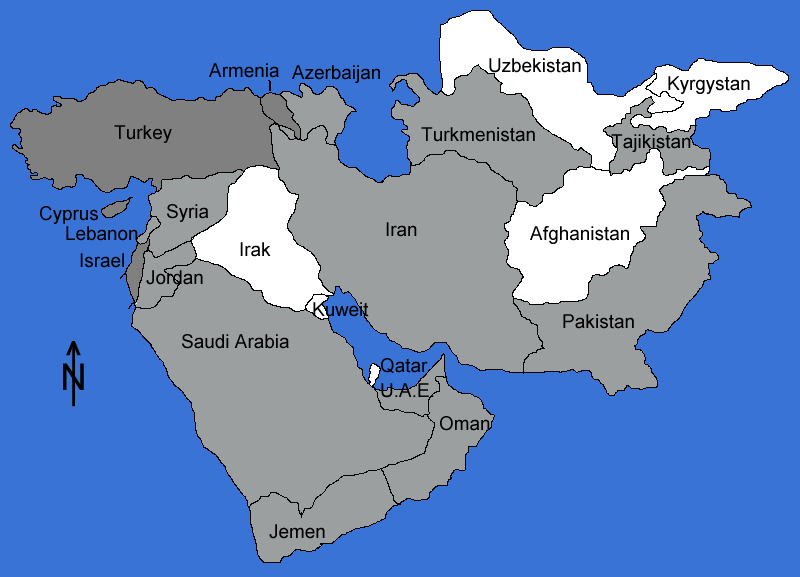
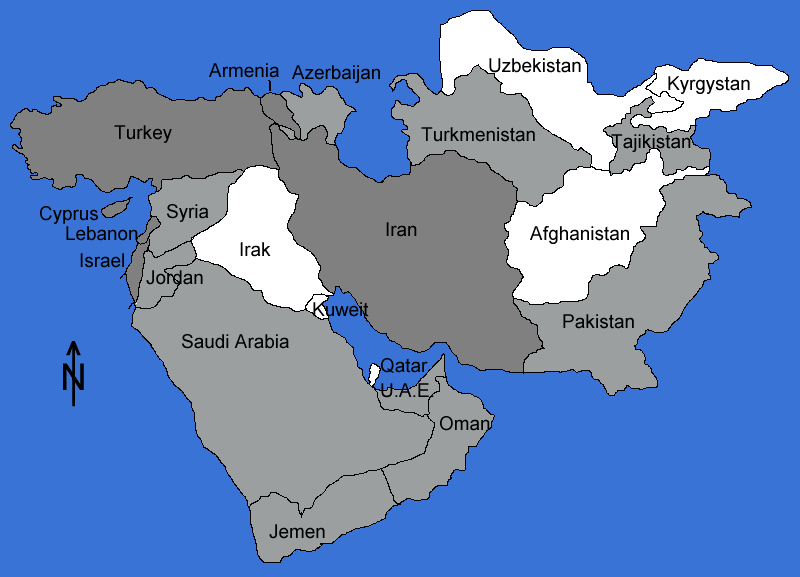
maps

Changed region(s): [[0.3125, 0.2184, 0.6875, 0.6551], [0.1875, 0.3744, 0.2188, 0.4055], [0.1562, 0.4055, 0.1875, 0.4367]]

diff --git a/english/ir/Maps/index.html b/english/ir/Maps/index.html
@@ -35,10 +35,43 @@
 <div data-role="page" id="pageroot">
     <div data-role="main" class="ui-content">
 
+        <figure class="left">
+            <a target="_top" href="../../explain/Maps/MiddleEast.html"><img alt="Middle East Map" src="../../../maps/MiddleEast.png" class="mapIconMiddleEast"></a>
+            <figcaption class="center">MiddleEast Map</figcaption>
+        </figure>
 
-        <div id="MenueEntries">
-            <ul class="linklist" data-role="listview" data-inset="true">
-            </ul>
+        <figure class="right">
+            <a target="_top" href="../../explain/Maps/MiddleEast.html"><img alt="Middle East Map" src="../../../maps/MiddleEast.png" class="mapIconMiddleEast"></a>
+            <figcaption class="center">MiddleEast Map</figcaption>
+        </figure>
+
+
+        <h1 class="center">Map of Iran</h1>
+
+        <br class="clear">
+
+        <div class="center">
+            <map name="IranMap">
+                <area shape="rect" coords="147,232,199,245" alt="Ghar-e-Ali Sadr" target="_top" href="../showcaves/AliSadr.html" />
+                <area shape="rect" coords="277,294,292,311" alt="Niasar" target="_top" href="../subterranea/Niasar.html" />
+                <area shape="rect" coords="261,278,304,293" alt="Niasar" target="_top" href="../subterranea/Niasar.html" />
+                <area shape="rect" coords="364,207,459,224" alt="Ghar Darband" target="_top" href="../showcaves/Darband.html" />
+                <area shape="rect" coords="162,194,285,210" alt="Ghar Katalehkhor" target="_top" href="../showcaves/KataleKhor.html" />
+                <area shape="rect" coords="100,217,215,234" alt="Ghar-e-Quri Qaleh" target="_top" href="../showcaves/QuriQaleh.html" />
+                <area shape="rect" coords="290,504,451,521" alt="Cave of Shapoor" target="_top" href="../caves/Shapoor.html" />
+                <area shape="rect" coords="185,297,279,312" alt="Chal-Nakhjir" target="_top" href="../showcaves/ChalNakhjir.html" />
+                <area shape="rect" coords="-1,57,22,125" alt="Turkey" target="_top" href="../../tr/Maps/index.html" />
+                <area shape="rect" coords="506,22,626,49" alt="Turkmenistan" target="_top" href="../../other/region/tm.html" />
+                <area shape="rect" coords="671,332,776,356" alt="Afghanistan" target="_top"  nohref="nohref" />
+                <area shape="rect" coords="22,394,60,420" alt="Iraq" target="_top"  nohref="nohref" />
+                <area shape="rect" coords="132,523,195,547" alt="Kuwait" target="_top"  nohref="nohref" />
+                <area shape="rect" coords="24,581,138,604" alt="Saudi Arabia" target="_top" href="../../other/region/sa.html" />
+                <area shape="rect" coords="259,762,311,785" alt="Qatar" target="_top"  nohref="nohref" />
+                <area shape="rect" coords="712,507,795,536" alt="Pakistan" target="_top" href="../../other/region/pk.html" />
+                <area shape="rect" coords="114,0,211,20" alt="Azerbaijan" target="_top" href="../../other/region/az.html" />
+                <area shape="default" alt="">
+            </map>
+            <img alt="" src="../../../maps/Big/Iran.png" USEMAP="#IranMap" border="1" width="800" height="726">
         </div>
 
     </div>
@@ -52,7 +85,7 @@
             </ul>
             <div data-role="controlgroup" data-type="horizontal" class="center">
                 <a data-ajax="false" href="../region/index.html" data-role="button" class="">By Province</a>
-                <a data-ajax="false" href="../Maps/index.html" data-role="button" class="ui-btn-active">Maps</a>
+                <a data-ajax="false" href="index.html" data-role="button" class="ui-btn-active">Maps</a>
             </div>
         </div>
     </div>

diff --git a/german/explain/Maps/MiddleEast.html b/german/explain/Maps/MiddleEast.html
@@ -60,7 +60,7 @@
                 <area shape="poly" alt="Lebanon" coords="151,216,145,226,146,229,140,234,136,236,137,244,145,243,148,239,149,235,152,230,158,227,162,224,157,215,152,215" href="../../../english/lb/Maps/index.html">
                 <area shape="poly" alt="Iran"
                       coords="274,121,269,129,270,134,272,150,275,159,280,166,279,172,281,179,282,181,285,185,287,190,298,195,296,202,294,214,289,219,287,224,287,228,292,234,294,240,300,246,305,248,314,256,318,263,319,267,319,277,323,285,333,294,336,286,339,285,343,293,349,291,356,299,361,311,369,323,376,331,383,335,386,333,390,339,397,343,403,347,412,350,417,350,418,352,429,350,433,343,438,343,446,343,457,356,461,364,469,365,481,371,489,369,502,369,509,371,523,371,523,362,527,356,531,352,536,351,540,348,545,347,542,345,542,341,540,337,538,332,538,325,532,323,530,320,524,318,522,316,518,309,513,303,513,296,512,296,512,293,523,277,518,268,512,267,506,261,508,248,504,241,507,237,507,235,508,232,505,227,504,224,510,220,513,213,518,200,516,199,517,190,518,189,513,185,513,182,506,179,496,172,490,170,487,162,478,162,474,159,469,158,465,156,462,156,455,151,444,150,444,152,441,154,430,154,423,158,422,163,417,164,411,164,410,172,407,173,403,173,400,175,394,176,389,174,387,177,383,180,381,182,378,182,374,179,366,176,361,171,357,167,348,166,341,162,338,159,337,150,336,145,328,144,326,140,328,134,325,128,322,124,311,128,306,134,308,138,305,140,301,138,296,136,292,138,288,138,286,135,280,129,279,128,279,124,275,122"
-                      href="../../../english/ir/region/Map.html">
+                      href="../../../english/ir/Maps/index.html">
                 <area shape="default" alt="">
             </map>
             <img alt="" src="../../../maps/Big/MiddleEast.gif" USEMAP="#MiddleEastMap" border="1" width="800" height="577">
@@ -71,7 +71,7 @@
         <br>
 
         <ul class="linklist2" data-role="listview" data-inset="true">
-            <li><a data-ajax="false" target="_top" href="../../../english/ir/region/Map.html">Iran</a></li>
+            <li><a data-ajax="false" target="_top" href="../../../english/ir/Maps/index.html">Iran</a></li>
             <li><a data-ajax="false" target="_top" href="../../../english/il/Maps/index.html">Israel</a></li>
             <li><a data-ajax="false" target="_top" href="../../../english/lb/Maps/index.html">Libanon</a></li>
             <li><a data-ajax="false" target="_top" href="../../../english/tr/Maps/index.html">Türkei</a></li>

diff --git a/english/explain/Maps/MiddleEast.html b/english/explain/Maps/MiddleEast.html
@@ -60,7 +60,7 @@
                 <area shape="poly" alt="Lebanon" coords="151,216,145,226,146,229,140,234,136,236,137,244,145,243,148,239,149,235,152,230,158,227,162,224,157,215,152,215" href="../../lb/Maps/index.html">
                 <area shape="poly" alt="Iran"
                       coords="274,121,269,129,270,134,272,150,275,159,280,166,279,172,281,179,282,181,285,185,287,190,298,195,296,202,294,214,289,219,287,224,287,228,292,234,294,240,300,246,305,248,314,256,318,263,319,267,319,277,323,285,333,294,336,286,339,285,343,293,349,291,356,299,361,311,369,323,376,331,383,335,386,333,390,339,397,343,403,347,412,350,417,350,418,352,429,350,433,343,438,343,446,343,457,356,461,364,469,365,481,371,489,369,502,369,509,371,523,371,523,362,527,356,531,352,536,351,540,348,545,347,542,345,542,341,540,337,538,332,538,325,532,323,530,320,524,318,522,316,518,309,513,303,513,296,512,296,512,293,523,277,518,268,512,267,506,261,508,248,504,241,507,237,507,235,508,232,505,227,504,224,510,220,513,213,518,200,516,199,517,190,518,189,513,185,513,182,506,179,496,172,490,170,487,162,478,162,474,159,469,158,465,156,462,156,455,151,444,150,444,152,441,154,430,154,423,158,422,163,417,164,411,164,410,172,407,173,403,173,400,175,394,176,389,174,387,177,383,180,381,182,378,182,374,179,366,176,361,171,357,167,348,166,341,162,338,159,337,150,336,145,328,144,326,140,328,134,325,128,322,124,311,128,306,134,308,138,305,140,301,138,296,136,292,138,288,138,286,135,280,129,279,128,279,124,275,122"
-                      href="../../../english/ir/region/Map.html">
+                      href="../../ir/Maps/index.html">
                 <area shape="poly" coords="260,97,259,104,263,105,263,111,266,115,278,124,295,131,294,135,298,138,301,140,300,135,301,128,299,125,292,118,292,115,294,111,292,111,287,106,287,100,280,94,278,94,271,92,269,93,267,93,261,97" alt="Armenia" target="_top" href="../../am/index.html"/>
                 <area shape="poly" coords="279,125,279,129,282,131,279,125,279,130,282,131,288,137,289,140,294,139,297,137,295,135,294,130,280,124,279,124" alt="Azerbaijan" target="_top" href="../../other/region/az.html"/>
                 <area shape="poly" coords="279,94,286,100,286,107,292,112,293,113,291,117,298,125,300,128,301,139,303,141,307,139,307,133,312,128,315,128,323,125,327,131,327,135,325,139,327,143" alt="Azerbaijan" target="_top" href="../../other/region/az.html"/>

diff --git a/english/am/region/VayotsDzor.html b/english/am/region/VayotsDzor.html
@@ -42,16 +42,12 @@
         <br class="clear">
 
         <p>
-            <b>Վայոց Ձոր</b> (Vayots Dzor Province)
-            The cultural heritage and the natural monuments of the region attract a number of tourists.
-            Jermuk and the surrounding forests are a tourist attraction with many sanatoriums, spa resorts and its ropeway.
-            It is considered one of the centres of medical tourism in Armenia.
-
+            <b>Վայոց Ձոր</b> (Vayots Dzor Province) is considered the center of medical tourism in Armenia, with many sanatoriums and spa resorts.
+            The cultural heritage and the natural monuments of the region also attract a number of tourists.
+            Jermuk and the surrounding forests are a major tourist attraction.
             Some areas of the province are listed as protected wildlife sanctuaries, including the Herher Open Woodland Sanctuary, the Jermuk Forest Sanctuary, the Jermuk Hydrological Sanctuary, and the Yeghegnadzor Sanctuary.
-
-            The Mozrov Cave was found in 1980 near the village of Arpi.
-            It is protected as a natural and cultural monument of Armenia.
-
+            Some mountains are developed with cable cars.
+            The is also karstified and has numerous caves.
         </p>
 
 
@@ -83,10 +79,10 @@
                 <li><a data-ajax="false" target="_top" href="index.html">By Province</a></li>
             </ul>
         </div>
-        <div data-role="controlgroup" data-type="horizontal" class="center">
-            <a data-ajax="false" href="../region/VayotsDzor.html" data-role="button" class="ui-btn-active">By Province</a>
-            <a data-ajax="false" href="../Maps/VayotsDzor.html" data-role="button" class="">Maps</a>
-        </div>
+<!--        <div data-role="controlgroup" data-type="horizontal" class="center">-->
+<!--            <a data-ajax="false" href="../region/VayotsDzor.html" data-role="button" class="ui-btn-active">By Province</a>-->
+<!--            <a data-ajax="false" href="../Maps/VayotsDzor.html" data-role="button" class="">Maps</a>-->
+<!--        </div>-->
     </div>
     <!-- Path End -->
 

diff --git a/english/lb/Maps/index.html b/english/lb/Maps/index.html
@@ -36,13 +36,13 @@
     <div data-role="main" class="ui-content">
 
         <figure class="left">
-            <a target="_top" href="../../explain/Maps/MiddleEast.html"><img alt="Middle East Map" src="../../../maps/MiddleEast.gif" width="86" height="62"></a>
-            <figcaption class="center">Middle East Map</figcaption>
+            <a target="_top" href="../../explain/Maps/MiddleEast.html"><img alt="Middle East Map" src="../../../maps/MiddleEast.png" class="mapIconMiddleEast"></a>
+            <figcaption class="center">MiddleEast Map</figcaption>
         </figure>
 
         <figure class="right">
-            <a target="_top" href="../../explain/Maps/MiddleEast.html"><img alt="Middle East Map" src="../../../maps/MiddleEast.gif" width="86" height="62"></a>
-            <figcaption class="center">Middle East Map</figcaption>
+            <a target="_top" href="../../explain/Maps/MiddleEast.html"><img alt="Middle East Map" src="../../../maps/MiddleEast.png" class="mapIconMiddleEast"></a>
+            <figcaption class="center">MiddleEast Map</figcaption>
         </figure>
 
 
@@ -57,7 +57,7 @@
                 <area shape="rect" alt="Israel" coords="193,581,238,598" href="../../il/Maps/index.html">
                 <area shape="rect" alt="Israel" coords="119,622,161,636" href="../../il/Maps/index.html">
                 <area shape="rect" alt="Israel" coords="186,619,242,634" href="../../il/Maps/index.html">
-                <area shape="default">
+                <area shape="default" alt="">
             </map>
             <img alt="" src="../../../maps/Big/Lebanon.gif" USEMAP="#LebanonMap">
         </div>

diff --git a/english/am/region/Syunik.html b/english/am/region/Syunik.html
@@ -43,8 +43,7 @@
 
         <p>
             <b>Սյունիք</b> (Syunik Province) is the southernmost province of Armenia.
-            It is enclosed by the Azerbaijan's Nakhchivan Autonomous Republic exclave to the west and Azerbaijan to the east.
-            The southern tip borders the Iran.
+            It is enclosed by the Azerbaijan's Nakhchivan Autonomous Republic exclave to the west and Azerbaijan to the east, the southern tip borders the Iran.
             Capital and largest city is Kapan.
             The province is a mountainous region, mainly covered with thick green forests.
             The main mountain ridge is called the <b>Zangezur Mountains</b>, with the highest peaks Mount Kaputjugh (3905 m asl) and Mount Gazanasar (3829 m asl).
@@ -77,10 +76,10 @@
                 <li><a data-ajax="false" target="_top" href="index.html">By Province</a></li>
             </ul>
         </div>
-        <div data-role="controlgroup" data-type="horizontal" class="center">
-            <a data-ajax="false" href="../region/Syunik.html" data-role="button" class="ui-btn-active">By Province</a>
-            <a data-ajax="false" href="../Maps/Syunik.html" data-role="button" class="">Maps</a>
-        </div>
+<!--        <div data-role="controlgroup" data-type="horizontal" class="center">-->
+<!--            <a data-ajax="false" href="../region/Syunik.html" data-role="button" class="ui-btn-active">By Province</a>-->
+<!--            <a data-ajax="false" href="../Maps/Syunik.html" data-role="button" class="">Maps</a>-->
+<!--        </div>-->
     </div>
     <!-- Path End -->
 

diff --git a/english/am/region/Ararat.html b/english/am/region/Ararat.html
@@ -42,7 +42,11 @@
         <br class="clear">
 
         <p>
-            <b>Արարատ</b> (Ararat Province)
+            <b>Արարատ</b> (Ararat Province) is named after the biblical Mount Ararat.
+            Located at the southeast of the Ararat plain, approximately 30% of the territory is plain, while the rest is dominated by mountains.
+            The Yeranos mountains are in the north, the Gegham, Dahnak and Mzhkatar mountains in the east, and the Urts mountains in the south.
+            The province is bordered by the Araks river in the west.
+            The highest mountain is mount Spitakasar (3560 m asl) in Gegham mountains.
         </p>
 
 
@@ -71,10 +75,10 @@
                 <li><a data-ajax="false" target="_top" href="index.html">By Province</a></li>
             </ul>
         </div>
-        <div data-role="controlgroup" data-type="horizontal" class="center">
-            <a data-ajax="false" href="../region/Ararat.html" data-role="button" class="ui-btn-active">By Province</a>
-            <a data-ajax="false" href="../Maps/Ararat.html" data-role="button" class="">Maps</a>
-        </div>
+        <!--        <div data-role="controlgroup" data-type="horizontal" class="center">-->
+        <!--            <a data-ajax="false" href="../region/Ararat.html" data-role="button" class="ui-btn-active">By Province</a>-->
+        <!--            <a data-ajax="false" href="../Maps/Ararat.html" data-role="button" class="">Maps</a>-->
+        <!--        </div>-->
     </div>
     <!-- Path End -->
 

diff --git a/english/il/Maps/index.html b/english/il/Maps/index.html
@@ -36,12 +36,12 @@
     <div data-role="main" class="ui-content">
 
         <figure class="left">
-            <a target="_top" href="../../explain/Maps/MiddleEast.html"><img alt="Middle East Map" src="../../../maps/MiddleEast.gif" class="mapIconMiddleEast"></a>
+            <a target="_top" href="../../explain/Maps/MiddleEast.html"><img alt="Middle East Map" src="../../../maps/MiddleEast.png" class="mapIconMiddleEast"></a>
             <figcaption class="center">MiddleEast Map</figcaption>
         </figure>
 
         <figure class="right">
-            <a target="_top" href="../../explain/Maps/MiddleEast.html"><img alt="Middle East Map" src="../../../maps/MiddleEast.gif" class="mapIconMiddleEast"></a>
+            <a target="_top" href="../../explain/Maps/MiddleEast.html"><img alt="Middle East Map" src="../../../maps/MiddleEast.png" class="mapIconMiddleEast"></a>
             <figcaption class="center">MiddleEast Map</figcaption>
         </figure>
 

diff --git a/english/ir/index.html b/english/ir/index.html
@@ -43,7 +43,7 @@
         <ul class="linklist" data-role="listview" data-inset="true">
             <li><a data-ajax="false" target="_top" href="region/ByRegion.html"><img alt="Region" class="ui-li-icon ui-corner-none symbol" src="../../graphics/symbol/Region.png">Alphabetical Index</a></li>
             <li><a data-ajax="false" target="_top" href="region/index.html"><img alt="Region" class="ui-li-icon ui-corner-none symbol" src="../../graphics/symbol/Region.png">Provinces</a></li>
-            <li><a data-ajax="false" target="_top" href="region/Map.html"><img alt="Map" class="ui-li-icon ui-corner-none symbol" src="../../graphics/symbol/Map.png">Map</a></li>
+            <li><a data-ajax="false" target="_top" href="Maps/index.html"><img alt="Map" class="ui-li-icon ui-corner-none symbol" src="../../graphics/symbol/Map.png">Map</a></li>
         </ul>
 
         <ul class="linklist" data-role="listview" data-inset="true">

diff --git a/english/am/region/Yerevan.html b/english/am/region/Yerevan.html
@@ -72,10 +72,10 @@
                 <li><a data-ajax="false" target="_top" href="index.html">By Province</a></li>
             </ul>
         </div>
-        <div data-role="controlgroup" data-type="horizontal" class="center">
-            <a data-ajax="false" href="../region/Yerevan.html" data-role="button" class="ui-btn-active">By Province</a>
-            <a data-ajax="false" href="../Maps/Yerevan.html" data-role="button" class="">Maps</a>
-        </div>
+<!--        <div data-role="controlgroup" data-type="horizontal" class="center">-->
+<!--            <a data-ajax="false" href="../region/Yerevan.html" data-role="button" class="ui-btn-active">By Province</a>-->
+<!--            <a data-ajax="false" href="../Maps/Yerevan.html" data-role="button" class="">Maps</a>-->
+<!--        </div>-->
     </div>
     <!-- Path End -->
 

diff --git a/english/tr/Maps/index.html b/english/tr/Maps/index.html
@@ -37,7 +37,7 @@
 
 
         <figure class="left">
-            <a target="_top" href="../../explain/Maps/MiddleEast.html"><img alt="Middle East Map" src="../../../maps/MiddleEast.gif" class="mapIconEurope"></a>
+            <a target="_top" href="../../explain/Maps/MiddleEast.html"><img alt="Middle East Map" src="../../../maps/MiddleEast.png" class="mapIconMiddleEast"></a>
             <figcaption class="center">Middle East Map</figcaption>
         </figure>
 

diff --git a/english/ir/region/ByRegion.html b/english/ir/region/ByRegion.html
@@ -189,7 +189,7 @@
             <ul>
                 <li><a data-ajax="false" target="_top" href="../../index.html">Main Index</a></li>
                 <li><a data-ajax="false" target="_top" href="../index.html">Iran</a></li>
-                <li><a data-ajax="false" target="_top" href="../region/Map.html">Map</a></li>
+                <li><a data-ajax="false" target="_top" href="../Maps/index.html">Map</a></li>
             </ul>
         </div>
     </div>
